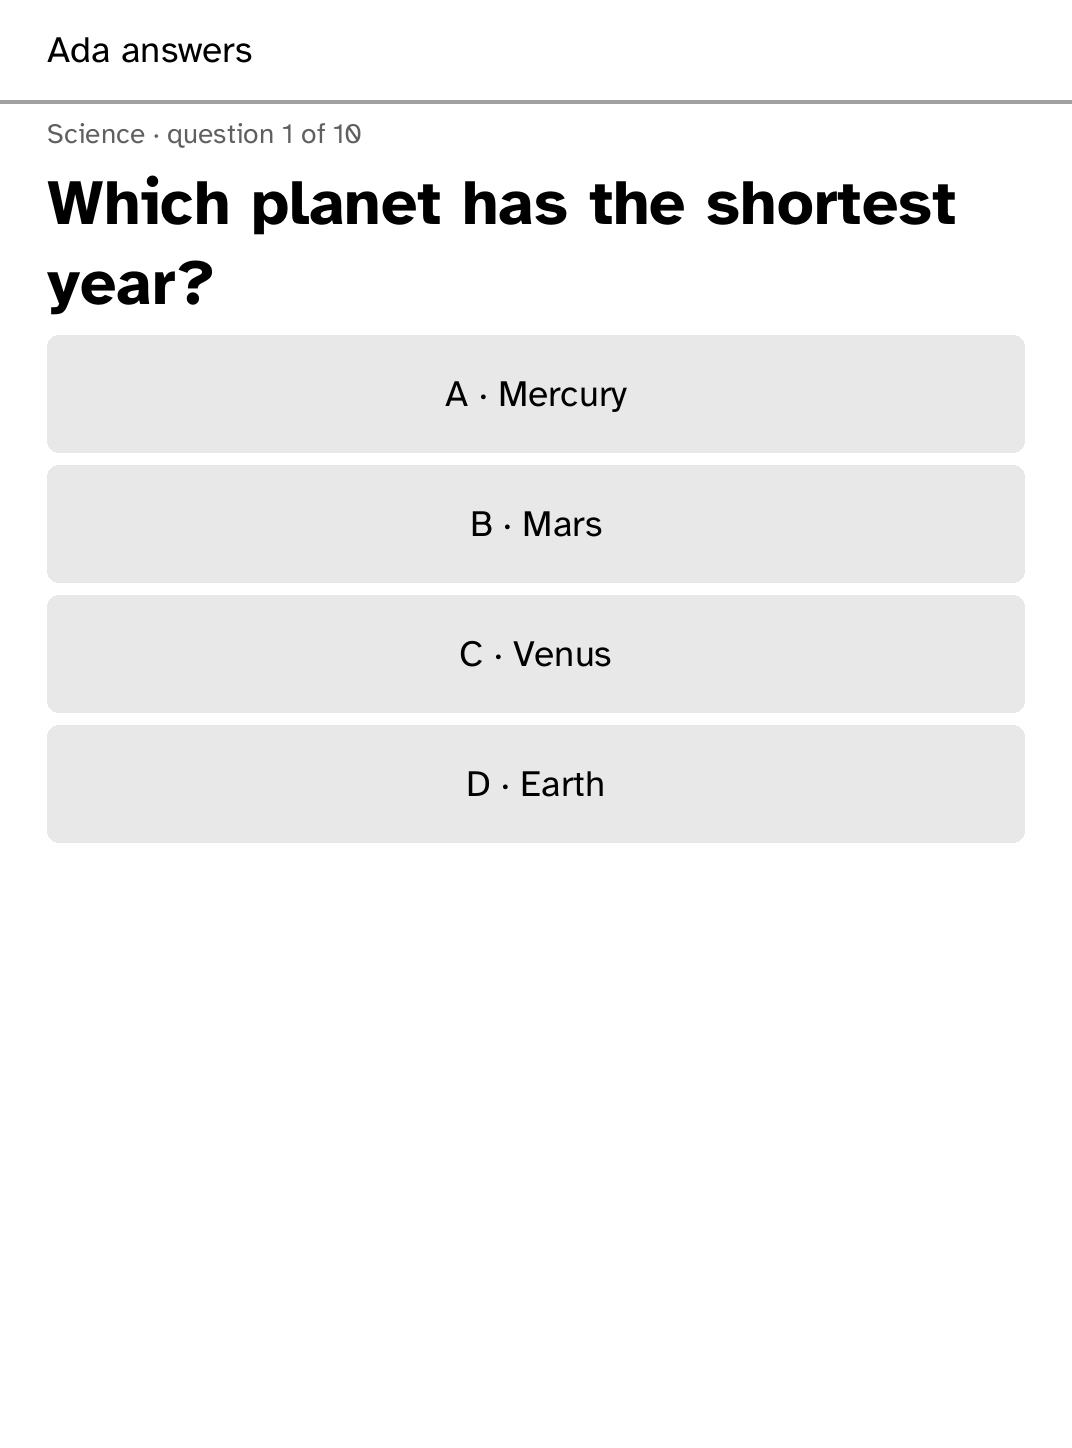
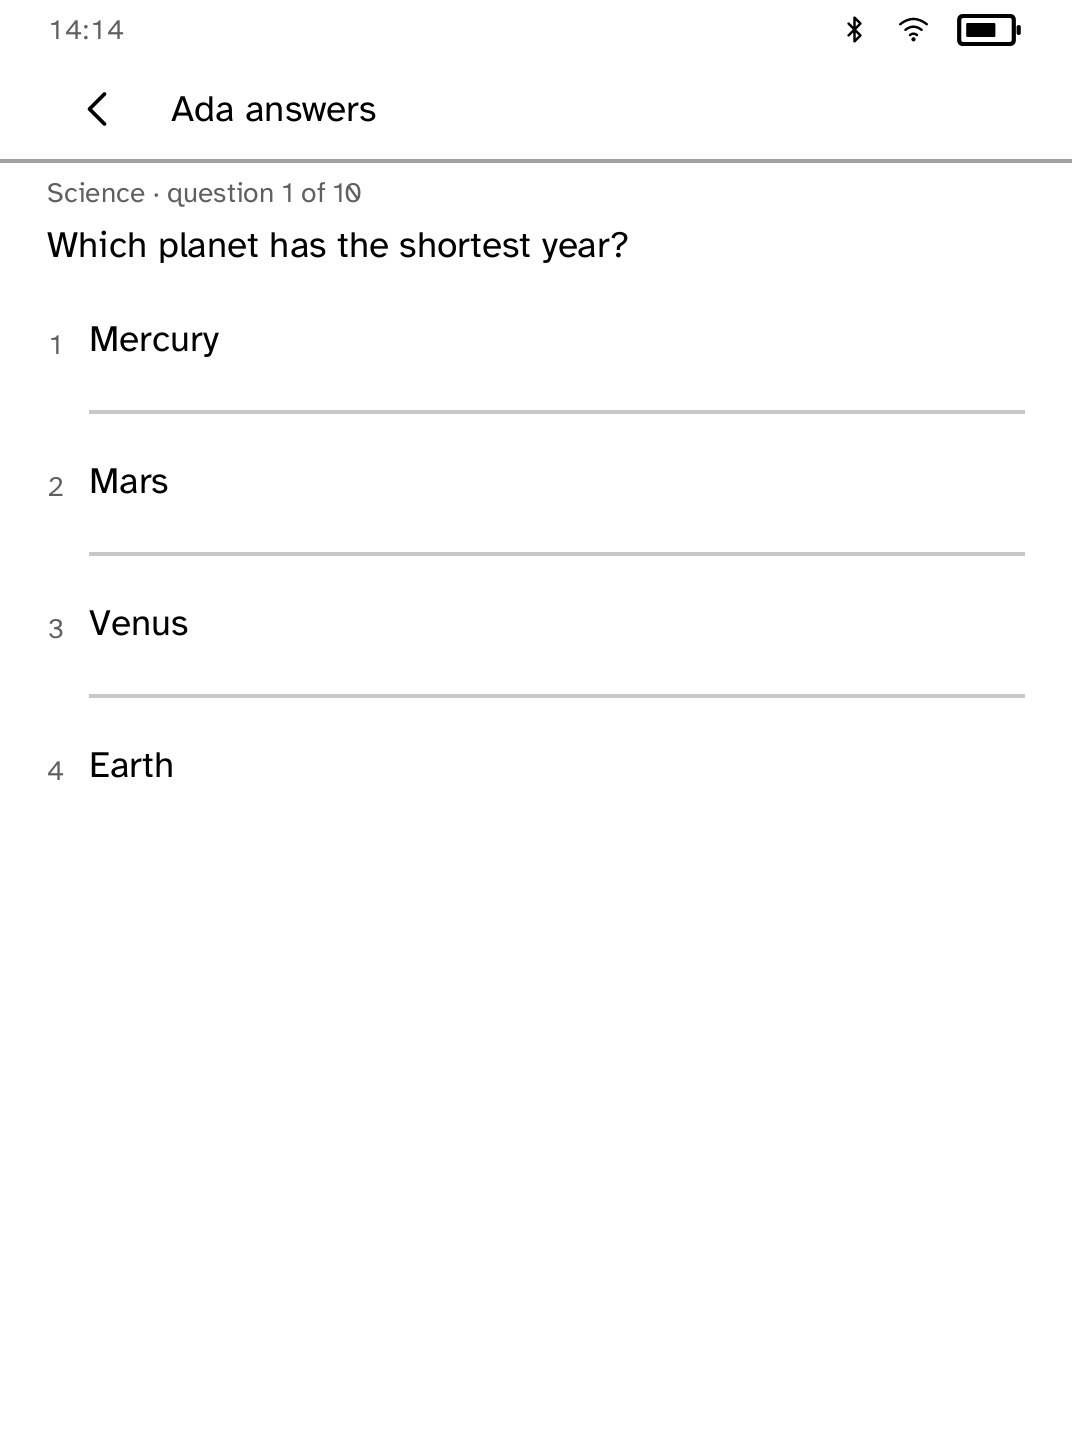
pubquiz: regen question screenshot and app page for 0.1.4

diff --git a/docs/apps/pubquiz/index.html b/docs/apps/pubquiz/index.html
@@ -21,7 +21,7 @@
 <meta name="twitter:description" content="Offline trivia rounds for one reader or a table passing one Kobo between players. Install it on a supported Kobo e-reader with Cobalt.">
 <meta name="twitter:image" content="https://bandarlabs.github.io/Cobalt/media/site/apps/pubquiz.png">
 <meta name="twitter:image:alt" content="Pub Quiz pass-around question with four large answer choices for Ada.">
-<meta http-equiv="Content-Security-Policy" content="default-src 'none'; script-src 'self' 'sha256-7H02tlm61cmYM84ng672srgou6GFgIyXZKLXFgeXzaM='; style-src 'self'; img-src 'self'; connect-src https://cobalt-install-relay.anandabhishek.workers.dev; base-uri 'none'; form-action 'self'">
+<meta http-equiv="Content-Security-Policy" content="default-src 'none'; script-src 'self' 'sha256-qdl/dgeNCE3DhiZz01NNFxdRmkLiZyM0yq5DuRO0ObI='; style-src 'self'; img-src 'self'; connect-src https://cobalt-install-relay.anandabhishek.workers.dev; base-uri 'none'; form-action 'self'">
 <script type="application/ld+json">{
   "@context": "https://schema.org",
   "@graph": [
@@ -40,7 +40,7 @@
       "applicationSuite": "Cobalt",
       "applicationCategory": "SoftwareApplication",
       "operatingSystem": "Cobalt on supported Kobo e-readers",
-      "softwareVersion": "0.1.3",
+      "softwareVersion": "0.1.4",
       "isAccessibleForFree": true,
       "offers": {
         "@type": "Offer",
@@ -97,7 +97,7 @@
       <p class="eyebrow">Kobo app</p>
       <h1>Pub Quiz</h1>
       <p class="summary">Offline trivia rounds for one reader or a table passing one Kobo between players.</p>
-      <div class="meta"><span>Version 0.1.3</span><span>network</span></div>
+      <div class="meta"><span>Version 0.1.4</span><span>network</span></div>
     </div>
     <figure class="app-shot">
       <img src="../../media/site/apps/pubquiz.png" width="1072" height="1448" alt="Pub Quiz pass-around question with four large answer choices for Ada.">
